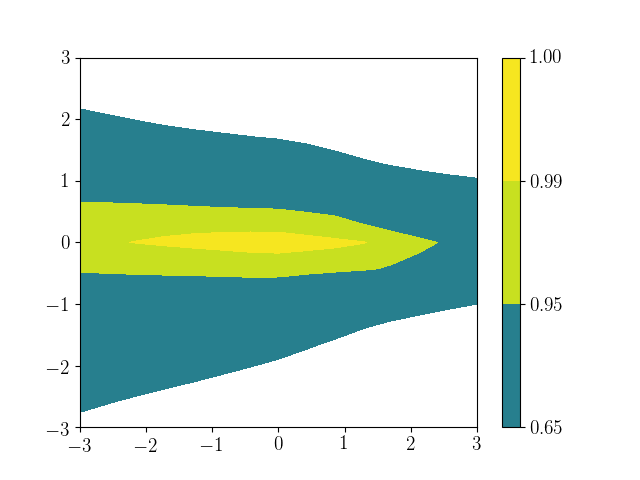
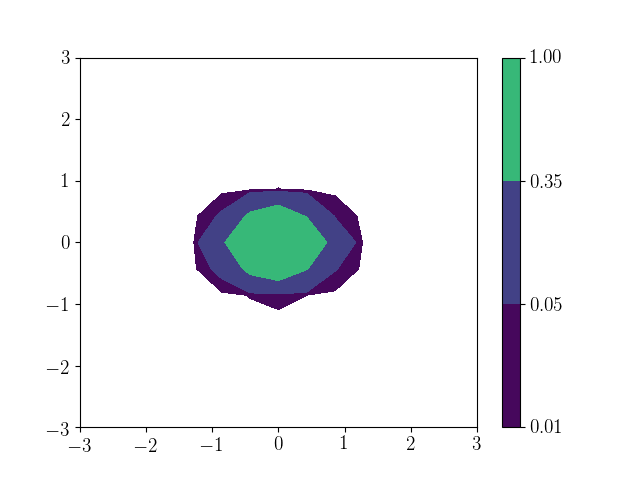
More plotting of contours with new code

diff --git a/ex2/chi2.py b/ex2/chi2.py
@@ -22,10 +22,14 @@ def chi2_local(observed, expected, error):
 
 def getPred(fh, wcValue1, wcValue2):
 	#funtion for predicting the theory values for a given pair of wilson coefficients
+	#{'qq3_i33i', 'G', 'qq1_ii33', 'uu_i33i', 'qu1_33ii', 'qu8_33ii', 'qq1_i33i', 'qu8_ii33', 'qq3_ii33', 'uG_33', 'ud1_33ii', 'qd8_33ii', 'qu1_ii33', 'uu_ii33', 'qd1_33ii', 'ud8_33ii'}
 	#returns
-	prediction = fh.predict(G=wcValue1, uG_33=wcValue2)#qq3_i33i=wcValue2)
+	prediction = fh.predict(qq3_i33i=wcValue1, qq1_i33i=wcValue2)#iqq3_i33i=wcValue2)#, uG_33=wcValue2)#
 	return [x[0] for x in prediction.values]
 
+
+wilco1 = "qq3\_i33i"
+wilco2 = "qq1\_i33i"
 
 #generate prediction array from data
 #af = AnalysisFrame.from_hdf('/nfs/topfitter/sbrown/HDF/analyses/ATLAS_2017_I1604029/ATLAS_2017_I1604029.h5')
@@ -38,7 +42,7 @@ obs = [x[0] for x in fh.reference.values]
 err = [x[1] for x in fh.reference.values]
 print(err)
 
-#print(pa.xr.obs)
+print(pa.wilcos)
 #print(pa.reference)
 #print(fh.reference)
 #print(pa.atpoint(G=1, qq3_i33i=1))
@@ -48,9 +52,9 @@ print(err)
 
  
 #plotting noValues*noValues with given x and y ranges
-noValues = 30
-xBins = np.linspace(-5, 5, noValues)
-yBins = np.linspace(-2, 2, noValues)
+noValues = 40
+xBins = np.linspace(-3, 3, noValues)
+yBins = np.linspace(-3, 3, noValues)
 
 i = 0
 j = 0
@@ -63,9 +67,9 @@ for x in xBins:
 		j+=1
 	j=0
 	i+=1
-print(pred)
+#print(pred)
 
-print(chi2Array)
+#print(chi2Array)
 #Calculate delta chi2
 
 chi2Array = chi2Array - chi2Array.min()
@@ -73,8 +77,8 @@ chi2Array = chi2Array - chi2Array.min()
 #calculate p
 pArray = chi2.sf(chi2Array, 2)
 
-print(chi2Array)
-print(pArray)
+#print(chi2Array)
+#print(pArray)
 
 #plot
 fig, ax = plt.subplots()
@@ -82,8 +86,7 @@ fig, ax = plt.subplots()
 #cont = ax.contourf(xBins, yBins, chi2Array)
 cont = ax.contourf(xBins, yBins, pArray, [0.01, 0.05, 0.35, 1.0]) 
 fig.colorbar(cont, ax=ax)
-
+plt.xlabel(wilco1)
+plt.ylabel(wilco2)
 plt.show()
-fig.savefig("contour_plots/contours_p_{}.png".format(noValues))
-
-
+fig.savefig("contour_plots/contours_p_{}_{}.png".format(wilco1.replace("\\",""), wilco2.replace("\\","")))
